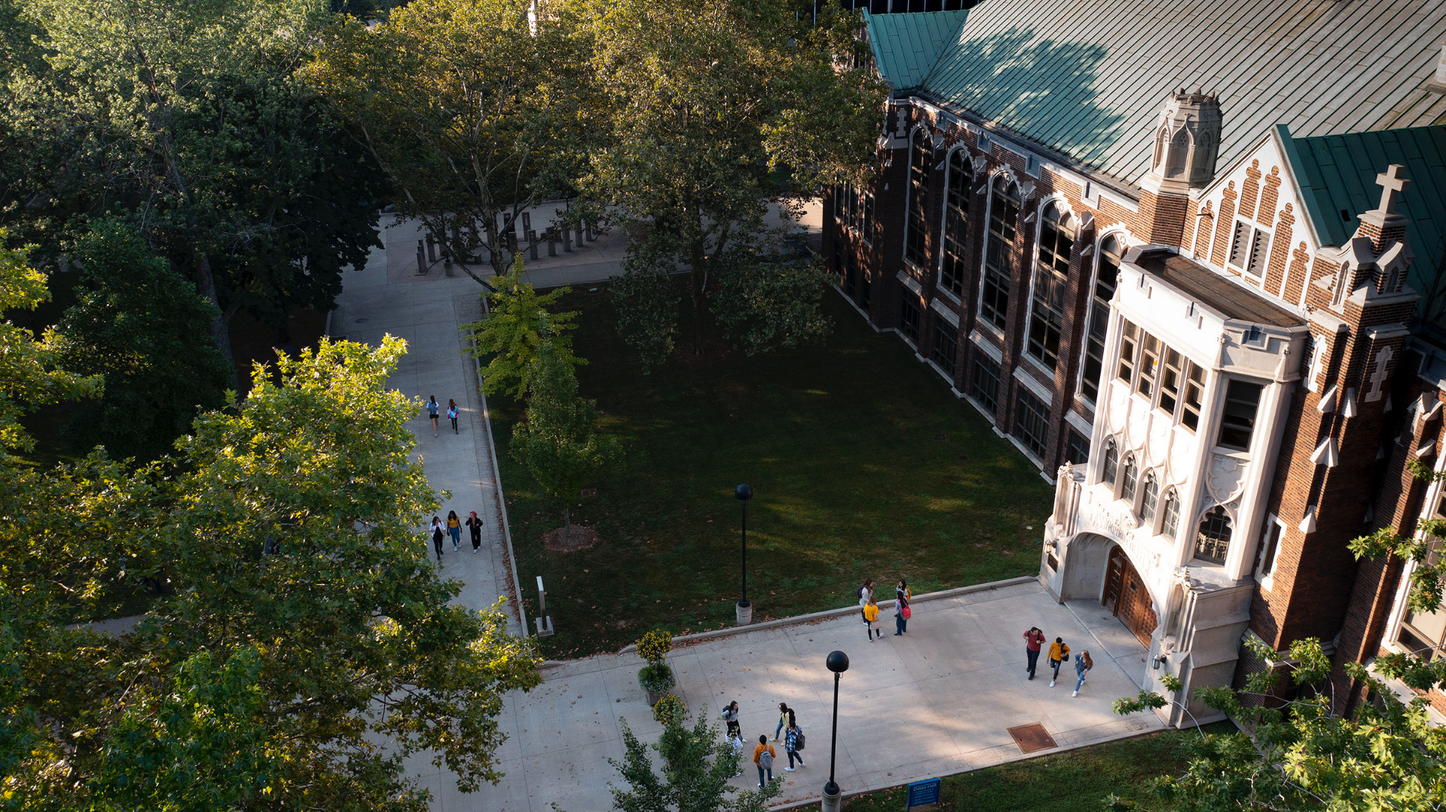
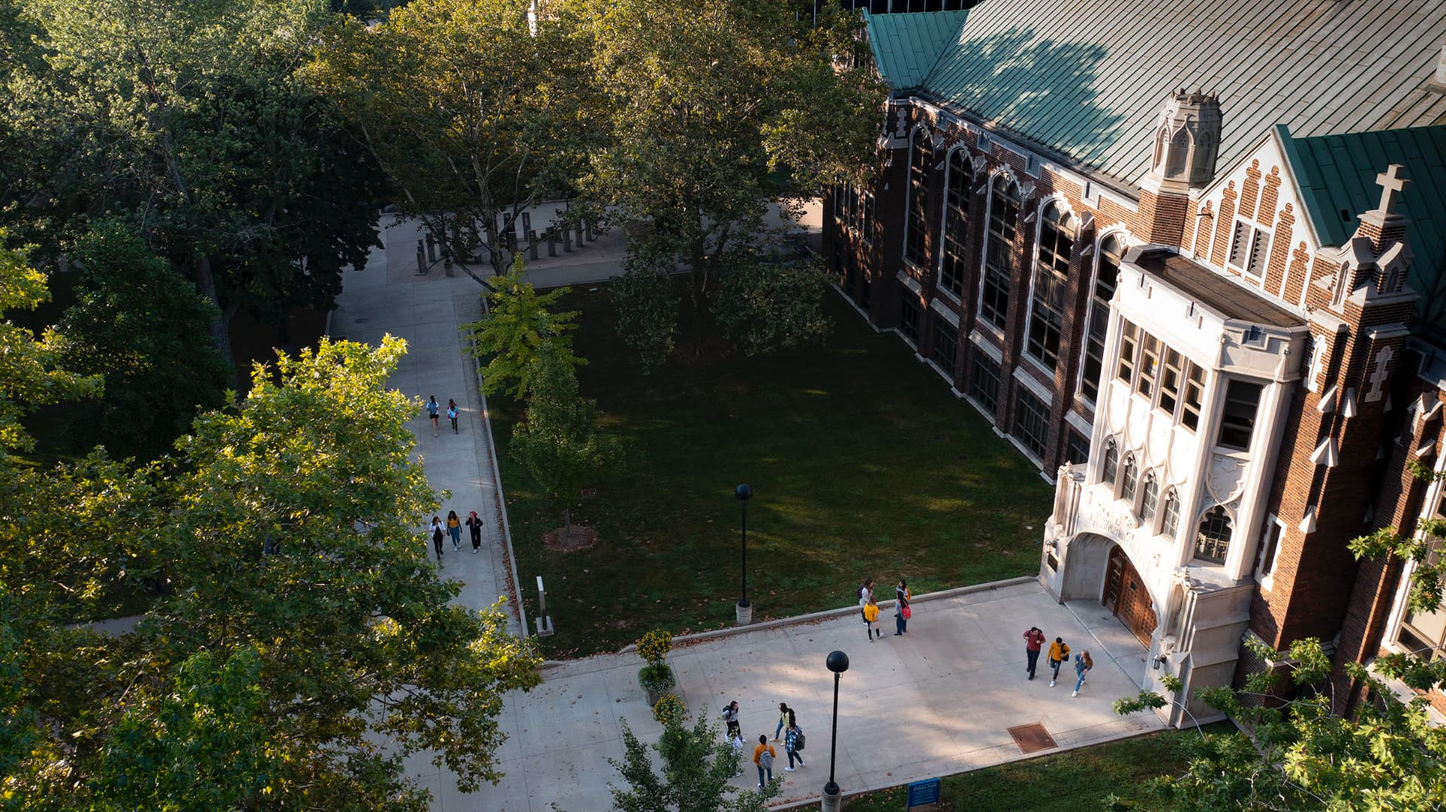
change Header's support button and shrink the size of photos

diff --git a/src/component/Header.tsx b/src/component/Header.tsx
@@ -1,14 +1,14 @@
 'use client'
 
 import Icon, {GithubOutlined, HomeOutlined, SmileOutlined} from '@ant-design/icons'
-import type {MenuProps} from 'antd'
-import {Col, Layout, Menu, Row, message} from 'antd'
+import {Button, MenuProps, notification, Col, Layout, Menu, Row} from 'antd'
 import Link from 'next/link'
 import React from 'react'
 import FallbackImage from '@/component/FallbackImage'
 import {Authenticator} from '@aws-amplify/ui-react'
 import {Amplify} from 'aws-amplify'
 import LoginPage from '@/component/LoginPage'
+import {NOTIFICATION_TYPES} from '@/lib/types'
 import awsconfig from '../aws-exports'
 
 Amplify.configure(awsconfig)
@@ -147,12 +147,18 @@ const items: MenuProps['items'] = [
     },
     {
         label: (
-            <span
-                onClick={() => message.info('在转账备注中写上姓名，我们会将您的名字放入感谢列表', 2)}
-                style={{cursor: 'pointer'}}
+            <Button type="text"
+                    onClick={() => {
+                        notification[NOTIFICATION_TYPES.SUCCESS]({
+                            message: '感谢您的支持',
+                            description:
+                                '您可以在转账备注中写上姓名，我们会将它放入感谢列表.',
+                        })
+                    }}
+                    style={{cursor: 'pointer'}}
             >
                 支持我们
-            </span>
+            </Button>
         ),
         key: 'support',
         style: itemStyle,

diff --git a/src/lib/types.tsx b/src/lib/types.tsx
@@ -4,6 +4,14 @@ export const BRIDGES_TYPES = {
 } as const
 export type BridgesType = (typeof BRIDGES_TYPES)[keyof typeof BRIDGES_TYPES];
 
+export const NOTIFICATION_TYPES = {
+    SUCCESS: 'success',
+    INFO: 'info',
+    WARNING: 'warning',
+    ERROR: 'error',
+} as const
+export type NotificationType = (typeof NOTIFICATION_TYPES)[keyof typeof NOTIFICATION_TYPES];
+
 export interface UserCard {
     avatar: string;
     username: string;
